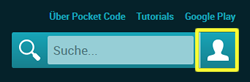
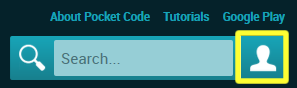
language update

diff --git a/main_DE.html b/main_DE.html
@@ -161,11 +161,11 @@
         </div>
         <div class="col-md-4">
           <h2>Details</h2>
-          <p>Der Game Jam findet währen der internationalen Computer Science Education Week von 7. bis 13. Dezember 2015 statt. Alle wichtigen Informationen werden während dem Event auf dieser Webseite veröffentlicht, also bleib dran!</p>
+          <p>Der Game Jam findet währen der internationalen Computer Science Education Week von 7. bis 13. Dezember 2015 statt. Alle wichtigen Informationen um teilnzunehmen findest du auf dieser Seite! Lese sie dir genau durch und sei Teil von etwas Großem!</p>
           <h2>Thema</h2>
           <p>Alles dreht sich um Alice im Wunderland! Erstelle dein eigenes Spiel oder Geschichte über Alice’s wunderbare Abenteuer. Vergiss nicht auf den weißen Hasen, die Grinsekatze, den verrückten Hutmacher und all die anderen farbprächtigen Charaktere der Erzählung. Weiter Details zum Thema werden vor dem Beginn der Jam veröffentlicht.</p>
-          <h2>Überraschungsthema</h2>
-          <p>Als Spezialaufgabe kündigen wir zum Start der Game Jam ein mit Alice zusammenhängendes Überraschungsthema an.</p>
+          <h2>Überraschungsthema:<br><i>"Die Zeit läuft ab!"</i></h2>
+          <p>Um es etwas spannender machen überleg dir etwas zu unserem Überraschungsthema "Die Zeit läuft ab!" und inkludiere es in dein Alice-Spiel! Was du dazu wissen musst findest du unter <a class="scroll" href="#participate">Wie kannst du teilnehmen?</a></p>
 <!--
           <h3>Diversifiers:</h3>
           <p>We will also announce some diversifiers that may give you additional winning chances, e.g., when you create a game that can be played with one finger only, or one that uses the compass sensor of your phone, … and many more!</p>
@@ -214,21 +214,49 @@
         </div>
         <div class="col-md-4">
           <h2>Wie kannst du teilnehmen?</h2>
-          <p>DEntscheide, ob du alleine oder im Team arbeiten möchtest. Vergiss nicht auf das Überraschungsthema und die Diversifizierer, welche am 7. Dezember 2015 veröffentlicht werden. Folge den Regeln und beginne dein eigenes Pocket Code oder Scratsch Spiel über “Alice im Wunderland” zu erstellen.</p>
-          <h2>Einreichen</h2>
-          <p>Wenn du dein Spiel erstellt hast, lade es bei der dementsprechenden Platform (Pocket Code oder Scratch) hoch und versehe es mit dem Tag #AliceGameJam in der Beschreibung. Fülle dann das Teilnahmeformular aus, welches in Kürze auf dieser Seite veröffentlicht wird.</p>
-        </div>
-        <div class="col-md-4">
-					<h2>Wie lerne ich zu programmieren?</h2>
-					<p>Wenn du noch keine Programmiererfahrung hast brauchst du keine Angst zu haben. Es ist einfacher als du denkst! In der Tutorial Übersicht haben wir dir ein paar großartige Beispiele für Anfänger zur Verfügung gestellt. Hinter Pocke Code uns Scratch stehen ausserdem sehr große Gemeinschaften, die dir eine Vielzahl an Beispielen im Web zur Verfügung stellen.</p>
+          <p>Entscheide, ob du alleine oder im Team arbeiten möchtest. Vergiss nicht auf das Überraschungsthema und die Diversifizierer, welche am 7. Dezember 2015 veröffentlicht werden. Folge den Regeln und beginne dein eigenes Pocket Code oder Scratsch Spiel über “Alice im Wunderland” zu erstellen.</p>
+			<h2>Wie lerne ich zu programmieren?</h2>
+					<p>Wenn du noch keine Programmiererfahrung hast brauchst du keine Angst zu haben. Es ist einfacher als du denkst! In der <a href="https://share.catrob.at/pocketalice/gaming-tutorials">Tutorial Übersicht</a> haben wir dir ein paar großartige Beispiele aus "Alice im Wunderland" für Anfänger zur Verfügung gestellt. Hinter Pocke Code uns Scratch stehen ausserdem sehr große Gemeinschaften, die dir eine Vielzahl an Beispielen im Web zur Verfügung stellen.</p>
 					<h2>Finde die richtigen Zutaten für dein Spiel</h2>
 					<p>Um es dir leichter zu machen, stellen wir dir ein paar spezielle Grafiken zur Verfügung die du während des Game Jams gerne verwenden kannst. Um mehr über diese freien Mediequellen zu erfahren, lies dir bitte unsere FAQs durch.</p>
-					<p>Wenn du uns dabei unterstüzten willst, anderen beim Programmieren zu helfen, schau dir bitte unsere FAQ Seite an, dort findest du weiter Informationen.</p>
-        </div>
-      </div>
-		  <div id="potion" class="decor">
+					<p>Wenn du uns dabei unterstüzten willst, anderen beim Programmieren zu helfen, schau dir bitte unsere <a href="http://www.alicegamejam.com/faq.html#faq14">FAQ Seite</a> an, dort findest du weiter Informationen.</p>
+ </div>
+        <div class="col-md-4">		  
+		<h2>Wie nehme ich teil?</h2>
+		<ul>
+		<p><li>Wenn ihr ein Team seid, wählt einen Teamnamen (aber natürlich kannst du auch einzeln teilnehmen!</li></p>
+		<p><li>Füge Grundlegendes zu eurem Projekt hinzu - <br>Das Spiel braucht zumindest:<br>
+		&hearts; <b>einen Willkommensbildschirm</b><br>
+		&hearts; <b>eine kurze Erklärung</b><br>
+		&hearts; <b>Einen Game-Over Bildschirm</b><br>
+		&hearts; <b>Einen Gewonnen-Bildschirm</b>
+		</li></p>
+		<p><li> Das Spiel muss sich rund um das Thema "Alice im Wunderland" und dem Überraschungsthema <b>"Die Zeit läuft ab!"</b> drehen</li></p>
+		<p><li>Gestaltet das Spiel mit Alice-Grafiken um es etwas bunter zu machen. Beachtet aber bitte das Urheberrecht oder benutzt Grafiken aus unserer Mediensammlung</li></p>
+		<p><li>Kreativität braucht auch ein paar Regeln:</br>
+		Um es etwas spannender zu machen sollte jedes Spiel bis zu vier der aufgezählten Punkte enthalten:<br>
+		&hearts; <b>Sensoren im Spielverlauf</b><br>
+		&hearts; <b>Zumindest 2 Levels</b><br>
+		&hearts; <b>Die Kollissionserkennung</b><br>
+		&hearts; <b>Eine Fremdsprache</b><br> z.B. Englisch wenn Deutsch eure Muttersprache ist</b><br>
+		&hearts; <b>Ein Zitat von Johnny Depp</b>
+		</li></p>
+		</ul>
+		</div>
+        <div class="col-md-4">
+		<div id="potion" class="decor">
         <img width="221" height="320" src="img/drink-me.png"/>
       </div>
+	       <h2>Ein Spiel einreichen</h2>
+      <p>Ein Spiel einzureichen ist einfach!</p>
+	  <p>Wenn ihr euer Spiel fertig gestellt und hochgeladen habt, gebt ihm eine Beschreibung (erzählt uns worum es geht!). Bitte führt dabei auch die beiden Hashtags #AliceGameJam und #[Euer Teamname] (bitte durch euren Teamnamen ersetzen)an.</p>
+	  <p>Falls ihr noch nicht eingelogged seid, tut es auf <a href="http://www.pocketcode.org" target="blank_">pocketcode.org</a> und öffnet das Spiel welches ihr einreichen möchtet.	</p><p><img src="img/pc_login.png" width = "66%"></p>
+	  <p>Während dieses Events haben wir für euch einen eigenen Button zum Einreichen hinzugefügt, den ihr einfach nur drücken müsst.</p>
+	  <p><img src="img/submit-button.png" width="90%"></p>
+	  <p>Danach füllt bitte den Fragebogen, der Teil der Abgabe ist, aus, bevor euer Spiel danach schließlich auf unserer <a href="https://share.catrob.at/pocketalice/">Wall of Fame</a> aufscheint!
+		</div>
+      </div>
+
     </div> <!-- /container -->
     </div> 
 

diff --git a/main_ES.html b/main_ES.html
@@ -164,7 +164,7 @@
           <p>El Game Jam se llevará a cabo durante la internacional Computer Science Education Week del 7 al 13 de Diciembre de 2015. Toda la información necesaria se publicará en esta web a lo largo de esta semana. ¡Así que estad atentos!</p>
           <h2>Temática</h2>
           <p>¡Todo es sobre Alicia en el País de las Maravillas! Crea tu propio juego y una historia sobre sus increíbles aventuras. No te olvides del Conejo Blanco, el Gato de Cheshire, el Sombrerero Loco y el resto de personajes pintorescos del libro. Más detalles sobre la temática disponibles antes del inicio del Jam.</p>
-          <h2>Tema sorpresa</h2>
+          <h2>Tema sorpresa:<br><i>“El tiempo se acaba”</i></h2>
           <p>Como un reto especial vamos a anunciar un "Tema sorpresa" relacionado con Alicia al inicio del Game Jam!</p>
 <!--
           <h3>Diversifiers:</h3>
@@ -219,19 +219,54 @@
 					<p>Si no tienes ninguna experiencia programando no tengas miedo, ¡es más fácil de lo que crees! En la sección de tutoriales proporcionamos algunos ejemplos para principiantes y lecciones para aprender a programar. Además existen enormes comunidades sobre Pocket Code y Scratch que proporcionan ejemplos en la web.</p>
 					<h2>Encuentra los materiales correctos para tu juego</h2>
 					<p>Para hacértelo más fácil te vamos a proporcionar algunos recursos especiales que puedes usar durante el Game Jam. Para obtener más información sobre estos recursos gratuitos consulta nuestra sección de preguntas frecuentes FAQs.</p>
-					<p>Si quieres apoyarnos y ayudar a otros a aprender a programar, echa un vistazo a nuestra sección de preguntas frecuentes y encuentra más información <a href="http://www.alicegamejam.com/faq.html">aquí</a></p>
+					<p>Si quieres apoyarnos y ayudar a otros a aprender a programar, echa un vistazo a nuestra sección de preguntas frecuentes y encuentra más información <a href="http://www.alicegamejam.com/faq.html#faq14">aquí</a></p>
         
 	</div>
         <div class="col-md-4">
-		<h2>Reglas y Diversificadores</h2>
-          <p>Las Reglas y Diversificadores estarán disponibles aquí durante el Game Jam, ¡permanece atento!</p>
+		<h2>Guía:</h2>
+		<ul>
+		<p><li>Si trabajas en equipo, elige el nombre del equipo</li></p>
+		<p><li>Emplea la “forma de un juego” –<br>tu juego debe tener al menos:<br>
+		&hearts; <b>Una pantalla con el título del juego</b><br>
+		&hearts; <b>Algunas instrucciones</b><br>
+		&hearts; <b>Una pantalla de Game Over</b><br>
+		&hearts; <b>Una pantalla de Ganador</b>
+		</li></p>
+		<p><li> Tu juego debe estar relacionado con Alicia en el País de las Maravillas y también con el tema sorpresa - <b>“El tiempo se acaba”</b></li></p>
+		<p><li>Utiliza gráficos inspirados en Alicia; pero hay que ser conscientes de los derechos de autor y dar créditos (poner los agradecimientos)</li></p>
+		<p><li>La creatividad nace de las limitaciones:</br>
+		Utiliza los diversificadores como retos adicionales. Para hacer el diseño del juego más emocionante (elige un máximo de cuatro):<br>
+		&hearts; <b>Utiliza los sensores</b><br>
+		&hearts; <b>Implementa al menos dos niveles</b><br>
+		&hearts; <b>Revisa el contenido aprendido</b>, por ejemplo, si es un juego de preguntas tipo Quiz, si es un serious game<br>
+		&hearts; <b>Implementa la detección de colisiones</b><br>
+		&hearts; <b>Utiliza una lengua extranjera</b>, por ejemplo Inglés, en lugar de tu lengua materna<br>
+		&hearts; <b>Utiliza una cita de Johnny Depp en tu juego</b>
+		</li></p>
+		</ul>
  			
 		</div>
-      </div>
-		  <div id="potion" class="decor">
+        <div class="col-md-4">
+		<div id="potion" class="decor">
         <img width="221" height="320" src="img/drink-me.png"/>
       </div>
-    </div> <!-- /container -->
+     <h2>Subir y Presentar:</h2>
+      <p>Sube tu programa Pocket Code y rellena la descripción (¿sobre qué trata tu juego?). Incluye los siguientes dos hashtags en la descripción de tu juego:
+	  <ul>
+	  <li>#AliceGameJam</li>
+	  <li>#NombreTuEquipo (escribe el nombre de tu equipo; no utilices “NombreTuEquipo”)</li>
+	  <li>Describe tu juego en 1-2 frases</li>
+	  </ul>
+	  </p>
+	  <p>Si aún no estás registrado, por favor inicia sesión haciendo click en el icono de tu perfil de usuario (resaltado en rojo).</p>
+	  <p><img src="img/pc_login.png" width = "66%"></p>
+	  <p>Ahora estarás en tus programas. Aquí encontrarás un nuevo botón: “Submit To Alice Game Jam“.</p>
+	  <p><img src="img/submit-button.png" width="90%"></p>
+	  <p>Haciendo click sobre este botón se abrirá un cuestionario. Por favor complétalo. Sólo si completas tu juego presentado se mostrará en la siguiente página web (categoría: programas presentados):<a href="https://share.catrob.at/pocketalice/">Wall of Fame</a></p>
+
+	  <p>To submit your game please fill out the questionnaire that occurs. Then your program will be submitted and shown on our <a href="https://share.catrob.at/pocketalice/">Wall of Fame</a>!
+	</div>
+ </div> <!-- /container -->
     </div> 
 
 

diff --git a/main.html b/main.html
@@ -225,28 +225,28 @@
 		  <p>We also provide some special <a href="https://share.catrob.at/pocketalice/gaming-tutorials">Alice-themed Tutorials</a> for this #AliceGameJam!</p>
 		  <h2>Find the right materials for your game</h2>
 		  <p>To make it easier for you we provide some special media assets which you may use during the Game Jam. Follow the links and feel free to use these <a href="https://share.catrob.at/pocketcode/pocket-library/looks">Looks</a> and <a href="https://share.catrob.at/pocketcode/pocket-library/backgrounds">Backgrounds</a> for your game!</p>
-		  <p>If you want to support us and help others to learn coding take a look at our FAQ section and find further information on this <a href="faq.html#faq15">here</a>.
+		  <p>If you want to support us and help others to learn coding take a look at our FAQ section and find further information on this <a href="faq.html#faq14">here</a>.
      
 		  </div>
         <div class="col-md-4">
-		<h2>Rules and Diversifiers</h2>
+		<h2>Rules and diversifiers</h2>
 		<ul>
-		<p><li>If You are working in a team, choose a team-name</li></p>
+		<p><li>If you are working in a team, choose a team-name</li></p>
 		<p><li>Use the "shape for a game" - <br>Your game needs to have at least:<br>
 		&hearts; <b>A title screen</b><br>
 		&hearts; <b>Some instructions</b><br>
 		&hearts; <b>A Game Over Screen</b><br>
 		&hearts; <b>A Win Screen</b>
 		</li></p>
-		<p><li> Your game must relate to Alice in Wonderland and also to the surprise theme <b>Time is running out</b></li></p>
+		<p><li> Your game must relate to Alice in Wonderland and also to the surprise theme <b>"Time is running out!"</b></li></p>
 		<p><li>Use Alice-inspired graphics (but be aware of copyright issues and give credits or use them from the Pocket Code Media Library)</li></p>
 		<p><li>Creativity is born from constraints:</br>
 		Use diversifiers as additional challenges and to make the game design more exciting (Include a maximum of 4):<br>
-		&hearts; <b>Use of Sensors</b><br>
+		&hearts; <b>Use of sensors</b><br>
 		&hearts; <b>At least two levels</b><br>
-		&hearts; <b>Check the learned content</b><br> (e.g. through a quiz, if it's a serious game)<br>
+		&hearts; <b>Check the learned content</b><br> (e.g., through a quiz if it's a serious game)<br>
 		&hearts; <b>Collision detection</b><br>
-		&hearts; <b>A foreign lanugage</b><br> e.g. English instead of your mother tongue</b><br>
+		&hearts; <b>A foreign lanugage,</b><br> e.g., English instead of your mother tongue</b><br>
 		&hearts; <b>A quote from Johnny Depp</b>
 		</li></p>
 		</ul>
@@ -257,11 +257,11 @@
       </div>
      <h2>Submission</h2>
       <p>Submitting your game is easy!</p>
-	  <p>After you created your game with Pocket Code just upload it and give it a description (Give us an introduction what your game is about). Please don't forgett to add the hashtags #AliceGameJam #[Your Teams Name] (please adapt this tag to your actual Team-Name) to this description.</p>
+	  <p>After you created your game with Pocket Code just upload it and add a description (tell us what your game is about). Please don't forget to add the hashtags #AliceGameJam #[Your Teams Name] (please adapt this tag to your actual Team-Name) to this description.</p>
 	  <p>If you're not already logged in, do it on <a href="http://www.pocketcode.org" target="blank_">pocketcode.org</a> and switch to the program you want to upload.	</p><p><img src="img/pc_login.png" width = "66%"></p>
 	  <p>During the Jam there will be an additional button available ("Submit To Alice Game Jam").</p>
 	  <p><img src="img/submit-button.png" width="90%"></p>
-	  <p>To submit your game please fill out the questionnaire that occurs. Then your program will be submitted and shown on our <a href="https://share.catrob.at/pocketalice/">Wall of Fame</a>!
+	  <p>To submit your game please fill out the questionnaire that is part of the submission process. Then your program will be submitted and shown on our <a href="https://share.catrob.at/pocketalice/">Wall of Fame</a>!
 		</div>
       </div>
 

diff --git a/index.html b/index.html
@@ -25,19 +25,7 @@
       <script src="https://oss.maxcdn.com/html5shiv/3.7.2/html5shiv.min.js"></script>
       <script src="https://oss.maxcdn.com/respond/1.4.2/respond.min.js"></script>
     <![endif]-->
-<!-- Facebook Pixel Code -->
-<script>
-!function(f,b,e,v,n,t,s){if(f.fbq)return;n=f.fbq=function(){n.callMethod?
-n.callMethod.apply(n,arguments):n.queue.push(arguments)};if(!f._fbq)f._fbq=n;
-n.push=n;n.loaded=!0;n.version='2.0';n.queue=[];t=b.createElement(e);t.async=!0;
-t.src=v;s=b.getElementsByTagName(e)[0];s.parentNode.insertBefore(t,s)}(window,
-document,'script','//connect.facebook.net/en_US/fbevents.js');
 
-fbq('init', '757497421050959');
-fbq('track', "PageView");</script>
-<noscript><img height="1" width="1" style="display:none"
-src="https://www.facebook.com/tr?id=757497421050959&ev=PageView&noscript=1"
-/></noscript>
 	<script>
 	function countdown() {
 		var now = new Date();
